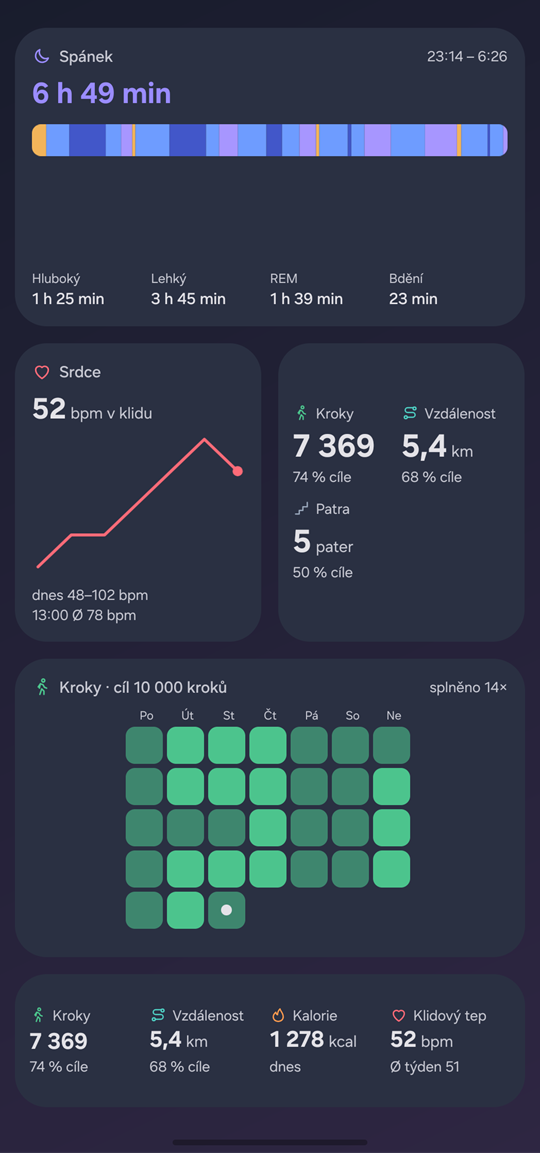
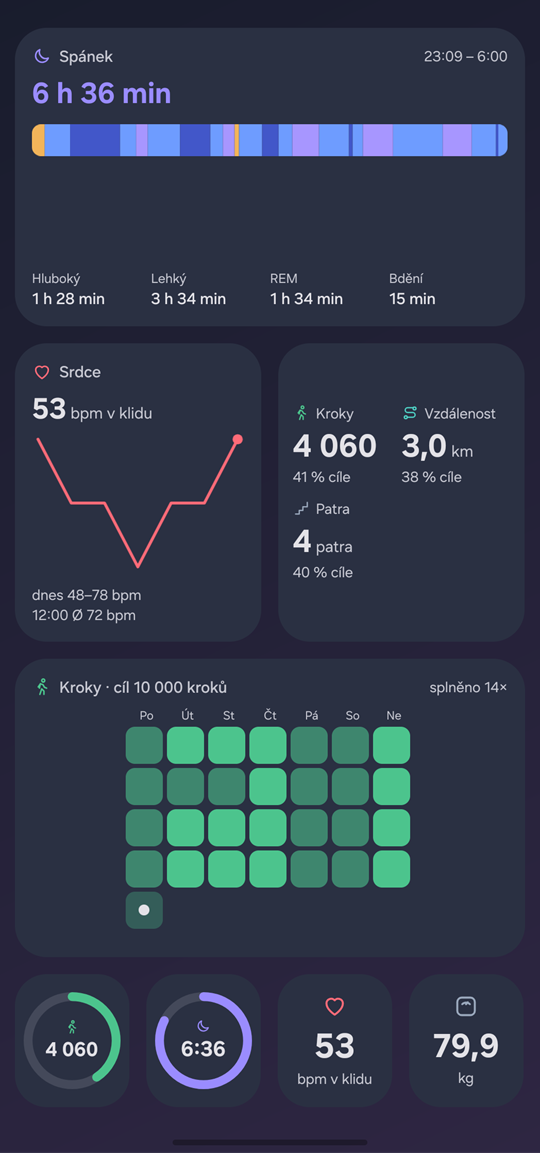
add 1x1 widgets

diff --git a/app/src/debug/kotlin/cz/healthwidgy/debug/WidgetGalleryActivity.kt b/app/src/debug/kotlin/cz/healthwidgy/debug/WidgetGalleryActivity.kt
@@ -27,6 +27,8 @@ import cz.healthwidgy.widget.HealthWidget
 import cz.healthwidgy.widget.HeartDayWidget
 import cz.healthwidgy.widget.HeartWidget
 import cz.healthwidgy.widget.LastWorkoutWidget
+import cz.healthwidgy.widget.MiniRingWidget
+import cz.healthwidgy.widget.MiniValueWidget
 import cz.healthwidgy.widget.MultiValueWidget
 import cz.healthwidgy.widget.SingleValueWidget
 import cz.healthwidgy.widget.SleepWidget
@@ -86,6 +88,16 @@ class WidgetGalleryActivity : ComponentActivity() {
       Variant("Jedna hodnota 2×1", SingleValueWidget(), 187, 96),
       Variant("Jedna hodnota 2×1: klidový tep", SingleValueWidget(), 187, 96, prefs("metric" to "RESTING_HR")),
       Variant("Jedna hodnota 2×2: spánek", SingleValueWidget(), 187, 218, prefs("metric" to "SLEEP")),
+      Variant("Malý kroužek 1×1", MiniRingWidget(), 93, 96),
+      Variant("Malý kroužek 1×1: spánek", MiniRingWidget(), 93, 96, prefs("metric" to "SLEEP")),
+      Variant("Malý kroužek 1×1: vzdálenost", MiniRingWidget(), 93, 96, prefs("metric" to "DISTANCE")),
+      Variant("Malý kroužek 2×2", MiniRingWidget(), 187, 218),
+      Variant("Malá hodnota 1×1", MiniValueWidget(), 93, 96),
+      Variant("Malá hodnota 1×1: kalorie", MiniValueWidget(), 93, 96, prefs("metric" to "CALORIES")),
+      Variant("Malá hodnota 1×1: klidový tep", MiniValueWidget(), 93, 96, prefs("metric" to "RESTING_HR")),
+      Variant("Malá hodnota 1×1: váha", MiniValueWidget(), 93, 96, prefs("metric" to "WEIGHT")),
+      Variant("Malá hodnota 1×1: tuk", MiniValueWidget(), 93, 96, prefs("metric" to "BODY_FAT")),
+      Variant("Malá hodnota 2×2: spánek", MiniValueWidget(), 187, 218, prefs("metric" to "SLEEP")),
       Variant("Spánek 4×2", SleepWidget(), 401, 218),
       Variant("Srdce 2×2", HeartWidget(), 187, 218),
       Variant("Tep dnes 4×2", HeartDayWidget(), 401, 218),
@@ -108,7 +120,12 @@ class WidgetGalleryActivity : ComponentActivity() {
         listOf(Tile(SleepWidget(), 4, 2)),
         listOf(Tile(HeartWidget(), 2, 2), Tile(MultiValueWidget(), 2, 2, prefs("slot3" to "FLOORS", "slot4" to "NONE"))),
         listOf(Tile(CalendarWidget(), 4, 2)),
-        listOf(Tile(MultiValueWidget(), 4, 1)),
+        listOf(
+          Tile(MiniRingWidget(), 1, 1),
+          Tile(MiniRingWidget(), 1, 1, prefs("metric" to "SLEEP")),
+          Tile(MiniValueWidget(), 1, 1, prefs("metric" to "RESTING_HR")),
+          Tile(MiniValueWidget(), 1, 1, prefs("metric" to "WEIGHT")),
+        ),
       ),
     )
 
@@ -175,7 +192,11 @@ class WidgetGalleryActivity : ComponentActivity() {
     fun px(dp: Int) = (dp * density).toInt()
     val gap = 12
     val width = (resources.displayMetrics.widthPixels / density).toInt() - 2 * 16
-    val half = (width - gap) / 2
+    // Four columns: a tile of n columns takes n/4 of the row, minus the gaps between tiles.
+    fun widthOf(cols: Int): Int {
+      val perRow = 4 / cols.coerceIn(1, 4)
+      return (width - (perRow - 1) * gap) / perRow
+    }
     val page =
       LinearLayout(this).apply {
         orientation = LinearLayout.VERTICAL
@@ -195,7 +216,7 @@ class WidgetGalleryActivity : ComponentActivity() {
         val line = LinearLayout(this@WidgetGalleryActivity).apply { orientation = LinearLayout.HORIZONTAL }
         page.addView(line, LinearLayout.LayoutParams(LinearLayout.LayoutParams.MATCH_PARENT, LinearLayout.LayoutParams.WRAP_CONTENT).apply { if (index > 0) topMargin = px(gap) })
         row.forEachIndexed { i, tile ->
-          val w = if (tile.cols >= 4) width else half
+          val w = widthOf(tile.cols)
           val h = if (tile.rows == 1) 92 else 206
           val rv =
             GlanceRemoteViews().compose(this@WidgetGalleryActivity, DpSize(w.dp, h.dp), state = tile.prefs) {

diff --git a/app/src/main/kotlin/cz/healthwidgy/widget/Widgets.kt b/app/src/main/kotlin/cz/healthwidgy/widget/Widgets.kt
@@ -689,6 +689,77 @@ class SingleValueWidgetReceiver : HealthWidgetReceiver() {
   override val glanceAppWidget: GlanceAppWidget = SingleValueWidget()
 }
 
+// ---------------------------------------------------------------- Malý kroužek (1×1, configurable)
+
+class MiniRingWidget : HealthWidget() {
+  companion object {
+    val METRIC = Slot("metric", "Cíl v kroužku", WidgetMetric.withGoal, WidgetMetric.STEPS)
+    val config = WidgetConfig(listOf(METRIC))
+  }
+
+  @Composable
+  override fun Content(context: Context, s: WidgetSnapshot) {
+    val size = LocalSize.current
+    val metric = chosen(METRIC) ?: WidgetMetric.STEPS
+    val r = s.readForGoal(metric)
+    WidgetFrame(openApp(context, r.destination), padding = 6.dp) {
+      // The ring fills the shorter side; the icon and the value sit inside it.
+      val ring = (minOf(size.width, size.height) - 12.dp).value.coerceIn(36f, 170f).toInt()
+      val stroke = (ring / 11f).coerceIn(4f, 12f)
+      val inner = ring - 2 * stroke - 8f
+      Box(GlanceModifier.fillMaxSize(), contentAlignment = Alignment.Center) {
+        Rings(context, listOf((r.progress ?: 0f) to metric.accent), ring, stroke) {
+          Column(horizontalAlignment = Alignment.CenterHorizontally) {
+            MetricIcon(metric, (ring / 6).coerceIn(10, 24).dp)
+            Text(
+              r.value,
+              style = TextStyle(color = GlanceTheme.colors.onSurface, fontSize = fitFontSize(r.value, inner, max = ring / 4).sp, fontWeight = FontWeight.Bold),
+              maxLines = 1,
+            )
+          }
+        }
+      }
+    }
+  }
+}
+
+class MiniRingWidgetReceiver : HealthWidgetReceiver() {
+  override val glanceAppWidget: GlanceAppWidget = MiniRingWidget()
+}
+
+// ---------------------------------------------------------------- Malá hodnota (1×1, configurable)
+
+class MiniValueWidget : HealthWidget() {
+  companion object {
+    val METRIC = Slot("metric", "Hodnota", WidgetMetric.pickerOrder, WidgetMetric.STEPS)
+    val config = WidgetConfig(listOf(METRIC))
+  }
+
+  @Composable
+  override fun Content(context: Context, s: WidgetSnapshot) {
+    val size = LocalSize.current
+    val metric = chosen(METRIC) ?: WidgetMetric.STEPS
+    val r = s.read(metric)
+    val big = minOf(size.width, size.height) >= 140.dp
+    WidgetFrame(openApp(context, r.destination), padding = 8.dp) {
+      Column(GlanceModifier.fillMaxSize(), verticalAlignment = Alignment.CenterVertically, horizontalAlignment = Alignment.CenterHorizontally) {
+        MetricIcon(metric, if (big) 28.dp else 18.dp)
+        Spacer(GlanceModifier.height(2.dp))
+        Text(
+          r.value,
+          style = TextStyle(color = GlanceTheme.colors.onSurface, fontSize = fitFontSize(r.value, (size.width - 16.dp).value, max = if (big) 40 else 26).sp, fontWeight = FontWeight.Bold),
+          maxLines = 1,
+        )
+        WidgetSmall(s.compactCaption(metric, r))
+      }
+    }
+  }
+}
+
+class MiniValueWidgetReceiver : HealthWidgetReceiver() {
+  override val glanceAppWidget: GlanceAppWidget = MiniValueWidget()
+}
+
 // ---------------------------------------------------------------- Poslední aktivita (4×1)
 
 class LastWorkoutWidget : HealthWidget() {

diff --git a/app/src/main/kotlin/cz/healthwidgy/widget/WidgetCatalog.kt b/app/src/main/kotlin/cz/healthwidgy/widget/WidgetCatalog.kt
@@ -65,10 +65,12 @@ object WidgetCatalog {
       WidgetInfo("Dnešní přehled", "4×2", "Kroužek a čtyři hodnoty dle výběru", TodayWidgetReceiver::class.java, ::TodayWidget, TodayWidget.config),
       WidgetInfo("Více hodnot", "4×1", "Dvě až čtyři hodnoty vedle sebe", MultiValueWidgetReceiver::class.java, ::MultiValueWidget, MultiValueWidget.config),
       WidgetInfo("Kroužek", "2×2", "Jeden cíl s procentem splnění", StepsWidgetReceiver::class.java, ::StepsWidget, StepsWidget.config),
+      WidgetInfo("Malý kroužek", "1×1", "Jeden cíl v kroužku na nejmenší ploše", MiniRingWidgetReceiver::class.java, ::MiniRingWidget, MiniRingWidget.config),
       WidgetInfo("Kroužky cílů", "2×2", "Tři cíle v soustředných kroužcích", GoalRingsWidgetReceiver::class.java, ::GoalRingsWidget, GoalRingsWidget.config),
       WidgetInfo("Trend", "4×2", "Graf za 7, 14 nebo 30 dní", StepsTrendWidgetReceiver::class.java, ::StepsTrendWidget, StepsTrendWidget.config),
       WidgetInfo("Kalendář cíle", "4×2", "Posledních 5 týdnů, den po dni", CalendarWidgetReceiver::class.java, ::CalendarWidget, CalendarWidget.config),
       WidgetInfo("Jedna hodnota", "2×1", "Vybraná hodnota velkým písmem", SingleValueWidgetReceiver::class.java, ::SingleValueWidget, SingleValueWidget.config),
+      WidgetInfo("Malá hodnota", "1×1", "Vybraná hodnota na nejmenší ploše", MiniValueWidgetReceiver::class.java, ::MiniValueWidget, MiniValueWidget.config),
       WidgetInfo("Spánek", "4×2", "Délka a fáze poslední noci", SleepWidgetReceiver::class.java, ::SleepWidget),
       WidgetInfo("Srdce", "2×2", "Klidový tep a trend 7 dní", HeartWidgetReceiver::class.java, ::HeartWidget),
       WidgetInfo("Tep dnes", "4×2", "Tep po hodinách od půlnoci", HeartDayWidgetReceiver::class.java, ::HeartDayWidget),

diff --git a/app/src/test/kotlin/cz/healthwidgy/widget/WidgetLogicTest.kt b/app/src/test/kotlin/cz/healthwidgy/widget/WidgetLogicTest.kt
@@ -118,6 +118,30 @@ class WidgetLogicTest {
   }
 
   @Test
+  fun valueFontShrinksWithTheTextAndStaysWithinBounds() {
+    // 1×1 on One UI: about 77 dp of content width.
+    assertEquals(26, fitFontSize("52", 77f, max = 26))
+    assertEquals(24, fitFontSize("7 369", 77f, max = 26))
+    assertEquals(20, fitFontSize("12 345", 77f, max = 26))
+    assertEquals(10, fitFontSize("1 234 567 890", 40f, max = 26))
+    assertEquals(10, fitFontSize("", 3f, max = 8))
+  }
+
+  @Test
+  fun compactCaptionNamesTheUnitAndAnOlderDay() {
+    val steps = snapshot(daily = mapOf(Metrics.STEPS to day(today to 7369.0)))
+    assertEquals("kroků", steps.compactCaption(WidgetMetric.STEPS, steps.read(WidgetMetric.STEPS)))
+    val resting = snapshot(daily = mapOf(Metrics.RESTING_HR to day(today to 52.0)))
+    assertEquals("bpm v klidu", resting.compactCaption(WidgetMetric.RESTING_HR, resting.read(WidgetMetric.RESTING_HR)))
+    val weight = snapshot(weights = listOf(BodyMeasurementEntity("w", "weight", 0, today.minusDays(1).toString(), 79.6, "x")))
+    assertEquals("kg · včera", weight.compactCaption(WidgetMetric.WEIGHT, weight.read(WidgetMetric.WEIGHT)))
+    val oldNight = snapshot(sleep = night(today.minusDays(3), 430))
+    assertEquals("h · ${Format.dayMonth(today.minusDays(3))}", oldNight.compactCaption(WidgetMetric.SLEEP, oldNight.read(WidgetMetric.SLEEP)))
+    val empty = snapshot()
+    assertEquals("Vzdálenost", empty.compactCaption(WidgetMetric.DISTANCE, empty.read(WidgetMetric.DISTANCE)))
+  }
+
+  @Test
   fun floorsUseCzechPlural() {
     assertEquals("patra", snapshot(daily = mapOf(Metrics.FLOORS to day(today to 3.0))).read(WidgetMetric.FLOORS).unit)
     assertEquals("pater", snapshot(daily = mapOf(Metrics.FLOORS to day(today to 12.0))).read(WidgetMetric.FLOORS).unit)

diff --git a/app/src/main/kotlin/cz/healthwidgy/widget/WidgetMetrics.kt b/app/src/main/kotlin/cz/healthwidgy/widget/WidgetMetrics.kt
@@ -187,6 +187,34 @@ fun WidgetSnapshot.readForGoal(metric: WidgetMetric): Reading {
   return Reading(NONE, null, "naposledy ${r.note} ${r.value} h", 0f, r.destination)
 }
 
+/** Day the current value of [metric] comes from: today for daily totals, older for measurements and nights. */
+fun WidgetSnapshot.valueDay(metric: WidgetMetric): LocalDate? =
+  when (metric) {
+    WidgetMetric.WEIGHT -> weight?.let { LocalDate.parse(it.date) }
+    WidgetMetric.BODY_FAT -> bodyFat?.let { LocalDate.parse(it.date) }
+    WidgetMetric.RESTING_HR -> restingHr?.first
+    WidgetMetric.SLEEP -> sleep?.let { LocalDate.parse(it.wakeDate) }
+    else -> today
+  }
+
+/**
+ * The line under the value in the 1×1 "Malá hodnota": the unit with a hint of what it measures
+ * ("bpm v klidu", "% tuku"), or with the day when the value is not from today ("kg · včera").
+ */
+fun WidgetSnapshot.compactCaption(metric: WidgetMetric, r: Reading): String {
+  if (r.value == NO_VALUE) return metric.shortLabel
+  val caption =
+    when (metric) {
+      WidgetMetric.STEPS -> Format.plural((steps ?: 0.0).roundToLong(), "krok", "kroky", "kroků")
+      WidgetMetric.RESTING_HR -> "bpm v klidu"
+      WidgetMetric.SLEEP -> "h spánku"
+      WidgetMetric.BODY_FAT -> "% tuku"
+      else -> r.unit ?: metric.shortLabel
+    }
+  val day = valueDay(metric)?.takeIf { it != today } ?: return caption
+  return "${r.unit ?: caption} · ${relativeDay(day, today)}"
+}
+
 /** Day values for trend charts, oldest first (today last). */
 fun WidgetSnapshot.series(metric: WidgetMetric, count: Int): List<Pair<LocalDate, Double?>> =
   when (metric) {

diff --git a/app/src/main/kotlin/cz/healthwidgy/widget/WidgetLogic.kt b/app/src/main/kotlin/cz/healthwidgy/widget/WidgetLogic.kt
@@ -53,6 +53,13 @@ fun multiValueLayout(count: Int, width: Float, height: Float): MultiLayout {
   return MultiLayout(cols, compact, valueSize, showNote = !compact && rowHeight >= 58f)
 }
 
+/**
+ * Font size (sp) at which [text] fits [width] dp on one line, at about 0.62 em per character, between
+ * [min] and [max]. The 1×1 widgets size their value with it, so "52" is large and "12 345" still fits.
+ */
+fun fitFontSize(text: String, width: Float, max: Int, min: Int = 10): Int =
+  (width / (text.length.coerceAtLeast(1) * 0.62f)).toInt().coerceIn(min, max.coerceAtLeast(min))
+
 /** Chart range in whole tens around the day's minimum and maximum (at least 40 bpm tall). */
 fun heartScale(hours: List<WidgetBitmaps.HourBpm>): Pair<Double, Double> {
   val low = floor(hours.minOf { it.min } / 10) * 10

diff --git a/README.md b/README.md
@@ -2,7 +2,7 @@
 
 **Your Garmin data on your Android home screen.**
 
-HealthWidgy is a small Android app that shows what your Garmin watch records: steps, heart rate, sleep, workouts and weight. It has a clean "Today" dashboard, history screens and eleven home-screen widgets.
+HealthWidgy is a small Android app that shows what your Garmin watch records: steps, heart rate, sleep, workouts and weight. It has a clean "Today" dashboard, history screens and thirteen home-screen widgets, from 1×1 to 4×2.
 
 It reads only the data that the Garmin Connect app already shares with **Android Health Connect**. Everything stays on the phone, and the app has no internet permission.
 
@@ -53,7 +53,7 @@ History screens draw from a local cache, so they open instantly and also work wh
 - **Activities:** workouts grouped by week. The workout detail shows time, distance, pace or speed, average and maximum heart rate, calories, elevation gain, and heart rate and speed charts.
 
 ### Home-screen widgets
-Eleven widgets built with Jetpack Glance. Seven of them let you choose what they show, both when you place them and later.
+Thirteen widgets built with Jetpack Glance, from 1×1 to 4×2. Nine of them let you choose what they show, both when you place them and later.
 
 <table>
   <tr>
@@ -67,10 +67,12 @@ Eleven widgets built with Jetpack Glance. Seven of them let you choose what they
 | Today's overview *(Dnešní přehled)* | 4×2 | A goal ring and four values | The ring and all four values |
 | Multiple values *(Více hodnot)* | 4×1 | Two to four values side by side, adapting to the size | Up to four values |
 | Ring *(Kroužek)* | 2×2 | One goal with its percentage | Steps, distance, floors or sleep |
+| Small ring *(Malý kroužek)* | 1×1 | One goal ring with its icon and value | Steps, distance, floors or sleep |
 | Goal rings *(Kroužky cílů)* | 2×2 | Three concentric goal rings | Each ring |
 | Trend | 4×2 | A bar or line chart with the average | Metric; 7, 14 or 30 days |
 | Goal calendar *(Kalendář cíle)* | 4×2 | The last 5 weeks, day by day, shaded by goal completion | Steps, distance, floors or sleep |
 | Single value *(Jedna hodnota)* | 2×1 | One value in large type | Any of the 9 metrics |
+| Small value *(Malá hodnota)* | 1×1 | An icon, a value and its unit | Any of the 9 metrics |
 | Sleep *(Spánek)* | 4×2 | Last night's duration, times and stages | – |
 | Heart *(Srdce)* | 2×2 | Resting heart rate and its 7-day trend | – |
 | Heart rate today *(Tep dnes)* | 4×2 | Today's heart rate hour by hour | – |
